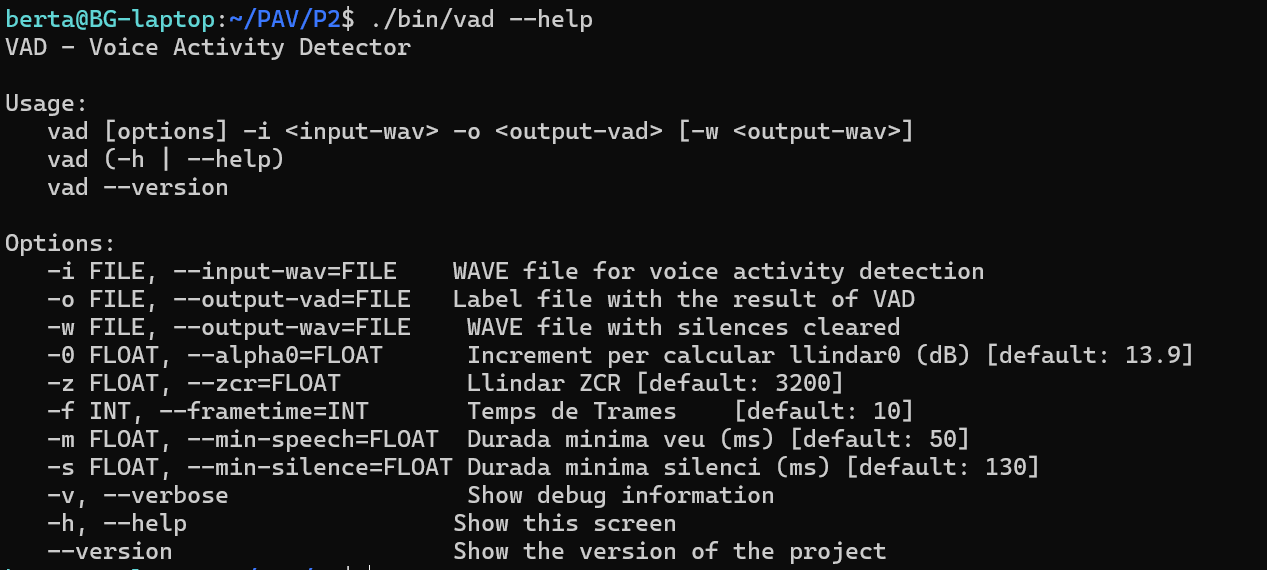
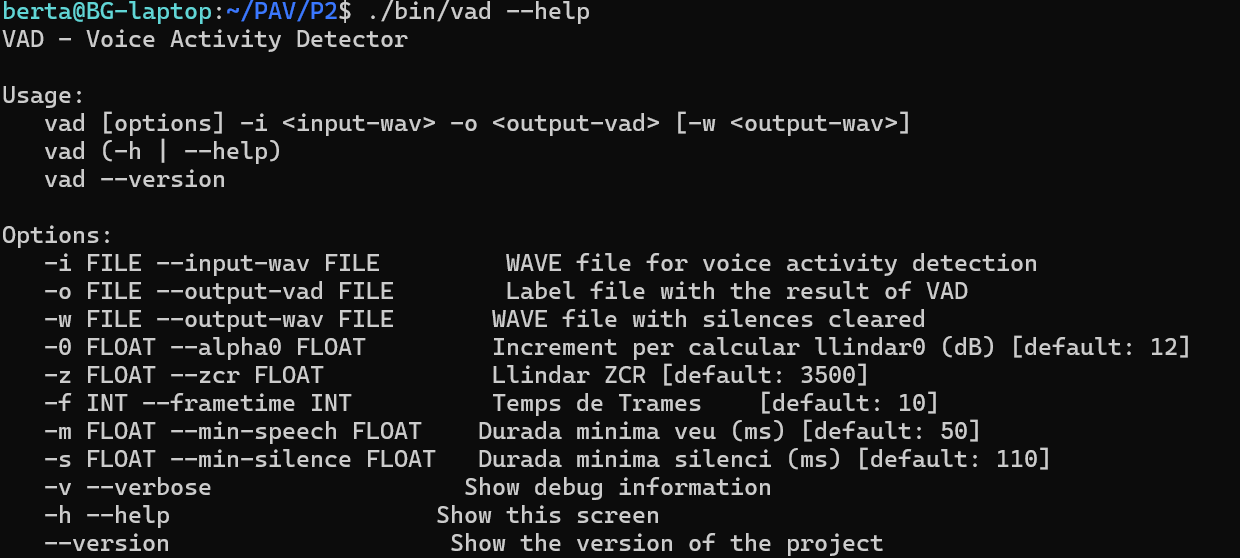
Actualitzacio del README

Changed region(s): [[0.0, 0.3961, 0.95, 1.0], [0.0, 0.1523, 0.7355, 0.3656], [0.0, 0.0, 0.4903, 0.1219]]

diff --git a/README.md b/README.md
@@ -264,7 +264,7 @@ Ejercicios
   * Frametime: el tamaño de la ventana, que luego usaremos para calcular la histeresi
   * Silence Frame : como de grande es la trama de silencio
   * Voice Frame : como de grande es la trama de voz
-
+![alt text](image.png)
   ![Missatge ajuda](img/docopt.png)
 
 
